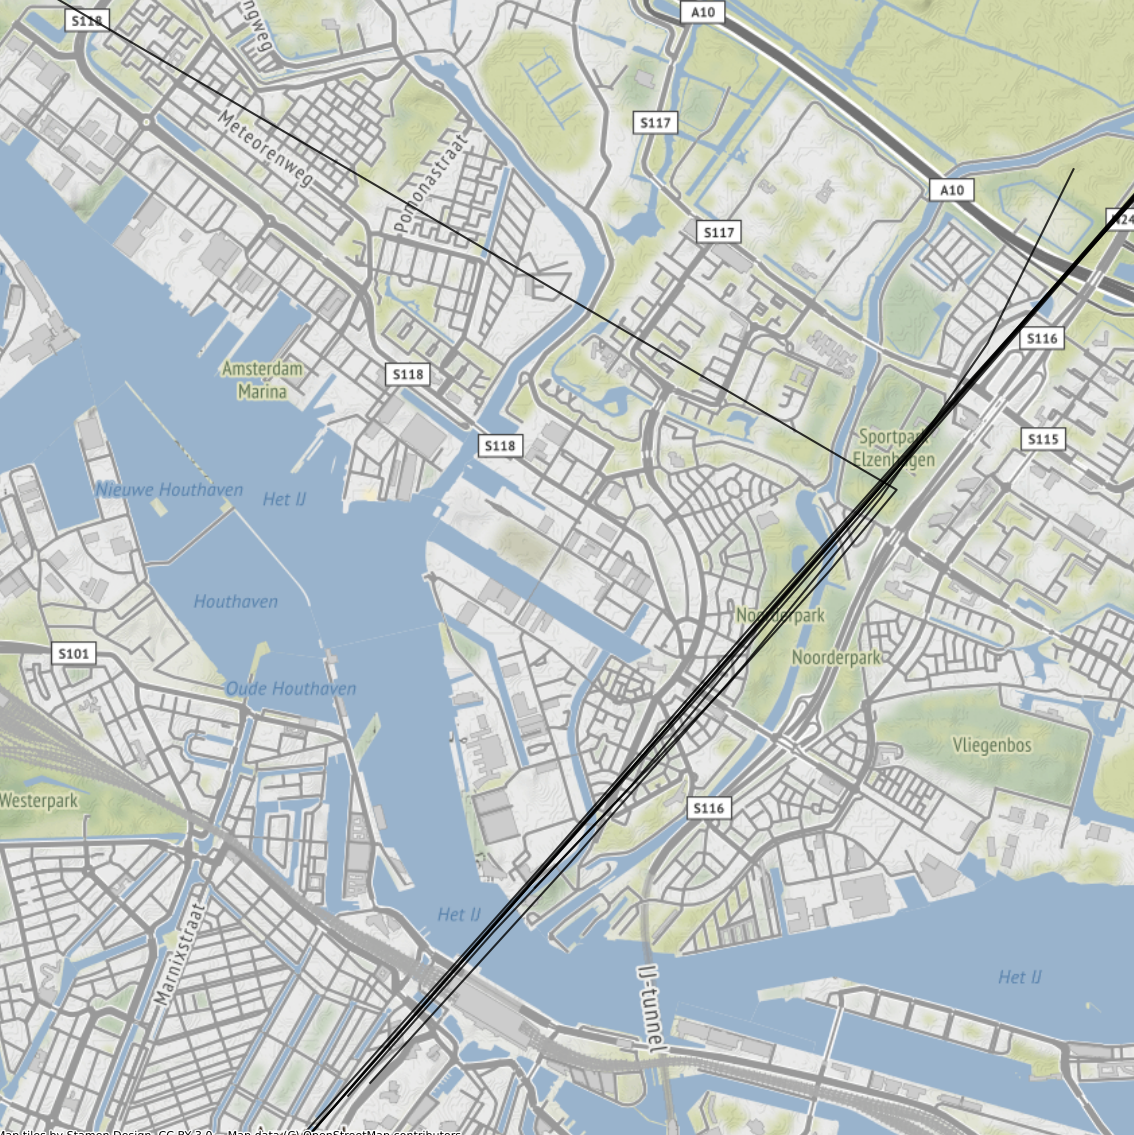
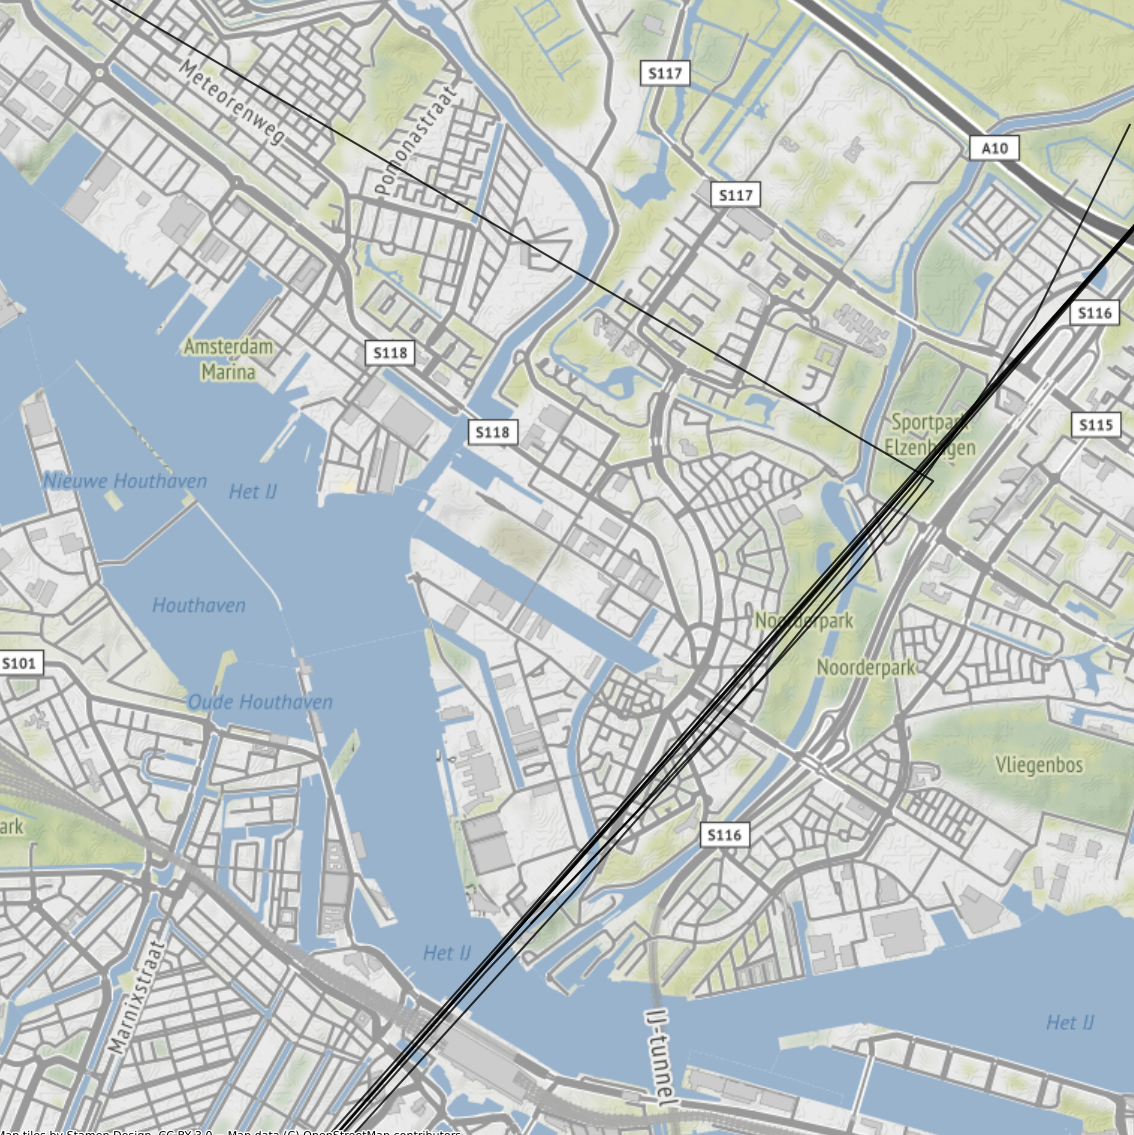
- added utility method - added comments to nuisance_check

diff --git a/nuisance_check.py b/nuisance_check.py
@@ -18,6 +18,8 @@ from ovm.utils import *
 origin = (52.396172234741506, 4.905621078252285)
 # Amsterdamse Bos
 #origin = (52.311502, 4.827680)
+# Polder baan
+#origin = (52.389977, 4.712354)
 
 radius = 1250
 altitude = 1000
@@ -46,7 +48,6 @@ def ignore_callsign(callsign: str):
 
 disturbance_callsigns: dict = ***REMOVED******REMOVED***
 complaints = []
-
 last_timestamp: datetime
 disturbance_begin: datetime
 last_disturbance: datetime
@@ -158,12 +159,15 @@ for complaint in complaints:
         # Add it to the trajectories of this complaint
         complaint.trajectories[callsign] = trajectory
 
+    # Set the bounding box for our area of interest
     r_earth = 6378
-    lat_min = complaint.coord[0] - (((radius*2) / 1000.0) / r_earth) * (180.0 / math.pi)
-    lon_min = complaint.coord[1] - (((radius*2) / 1000.0) / r_earth) * (180.0 / math.pi) / math.cos(complaint.coord[0] * math.pi/180.0)
-    lat_max = complaint.coord[0] + (((radius*2) / 1000.0) / r_earth) * (180.0 / math.pi)
-    lon_max = complaint.coord[1] + (((radius*2) / 1000.0) / r_earth) * (180.0 / math.pi) / math.cos(complaint.coord[0] * math.pi/180.0)
+    padding = 1000
+    lat_min = complaint.coord[0] - (((radius+padding) / 1000.0) / r_earth) * (180.0 / math.pi)
+    lon_min = complaint.coord[1] - (((radius+padding) / 1000.0) / r_earth) * (180.0 / math.pi) / math.cos(complaint.coord[0] * math.pi/180.0)
+    lat_max = complaint.coord[0] + (((radius+padding) / 1000.0) / r_earth) * (180.0 / math.pi)
+    lon_max = complaint.coord[1] + (((radius+padding) / 1000.0) / r_earth) * (180.0 / math.pi) / math.cos(complaint.coord[0] * math.pi/180.0)
 
+    # Make plot of all callsign trajectories
     index += 1
     plotter = StatePlotter()
     plotter.plot_trajectories(bbox=(lat_min, lat_max, lon_min, lon_max),

diff --git a/ovm/stateplotter.py b/ovm/stateplotter.py
@@ -1,6 +1,5 @@
 import json
 import math
-
 import pandas as pd
 import geopandas as gpd
 from shapely import LineString
@@ -8,21 +7,10 @@ from shapely.geometry import Polygon
 from pyproj import CRS, Proj, transform, Transformer
 import contextily as ctx
 import matplotlib.pyplot as plt
+from ovm.utils import convert_epsg4326_to_epsg3857
 
 
 class StatePlotter:
-    #   Converting lat, lon (epsg:4326) into EPSG:3857
-    # Ref: https://stackoverflow.com/questions/37523872/converting-coordinates-from-epsg-3857-to-4326-dotspatial/40403522#40403522
-
-    def ConvertCoordinate(self, lon, lat):
-        lonInEPSG4326 = lon
-        latInEPSG4326 = lat
-
-        lonInEPSG3857 = (lonInEPSG4326 * 20037508.34 / 180)
-        latInEPSG3857 = (math.log(math.tan((90 + latInEPSG4326) * math.pi / 360)) / (math.pi / 180)) * (
-                    20037508.34 / 180)
-        return lonInEPSG3857, latInEPSG3857
-
     def plot_states(self,
                     states: list,
                     bbox: tuple,
@@ -127,8 +115,8 @@ class StatePlotter:
             f, ax = plt.subplots(figsize=figsize)
             bounds_3857.plot(ax=ax, alpha=0.0, edgecolor="k")
             gdf_3857.plot(ax=ax, alpha=0.8, edgecolor="k", column='callsign')
-            min_3857 = self.ConvertCoordinate(lon_min, lat_min)
-            max_3857 = self.ConvertCoordinate(lon_max, lat_max)
+            min_3857 = convert_epsg4326_to_epsg3857(lon_min, lat_min)
+            max_3857 = convert_epsg4326_to_epsg3857(lon_max, lat_max)
             ax.set_xlim(min_3857[0], max_3857[0])
             ax.set_ylim(min_3857[1], max_3857[1])
             ctx.add_basemap(ax, zoom=tile_zoom)

diff --git a/ovm/utils.py b/ovm/utils.py
@@ -1,4 +1,5 @@
 import datetime
+import math
 import string
 
 
@@ -12,4 +13,17 @@ def convert_int_to_datetime(value: int):
 
 def callsign_compare(callsign1: str, callsign2: str):
     return callsign1.replace(' ', '') == callsign2.replace(' ', '')
+
+
+#   Converting lat, lon (epsg:4326) into EPSG:3857
+# Ref: https://stackoverflow.com/questions/37523872/converting-coordinates-from-epsg-3857-to-4326-dotspatial/40403522#40403522
+
+def convert_epsg4326_to_epsg3857(lon, lat):
+    lonInEPSG4326 = lon
+    latInEPSG4326 = lat
+
+    lonInEPSG3857 = (lonInEPSG4326 * 20037508.34 / 180)
+    latInEPSG3857 = (math.log(math.tan((90 + latInEPSG4326) * math.pi / 360)) / (math.pi / 180)) * (
+                20037508.34 / 180)
+    return lonInEPSG3857, latInEPSG3857
 
